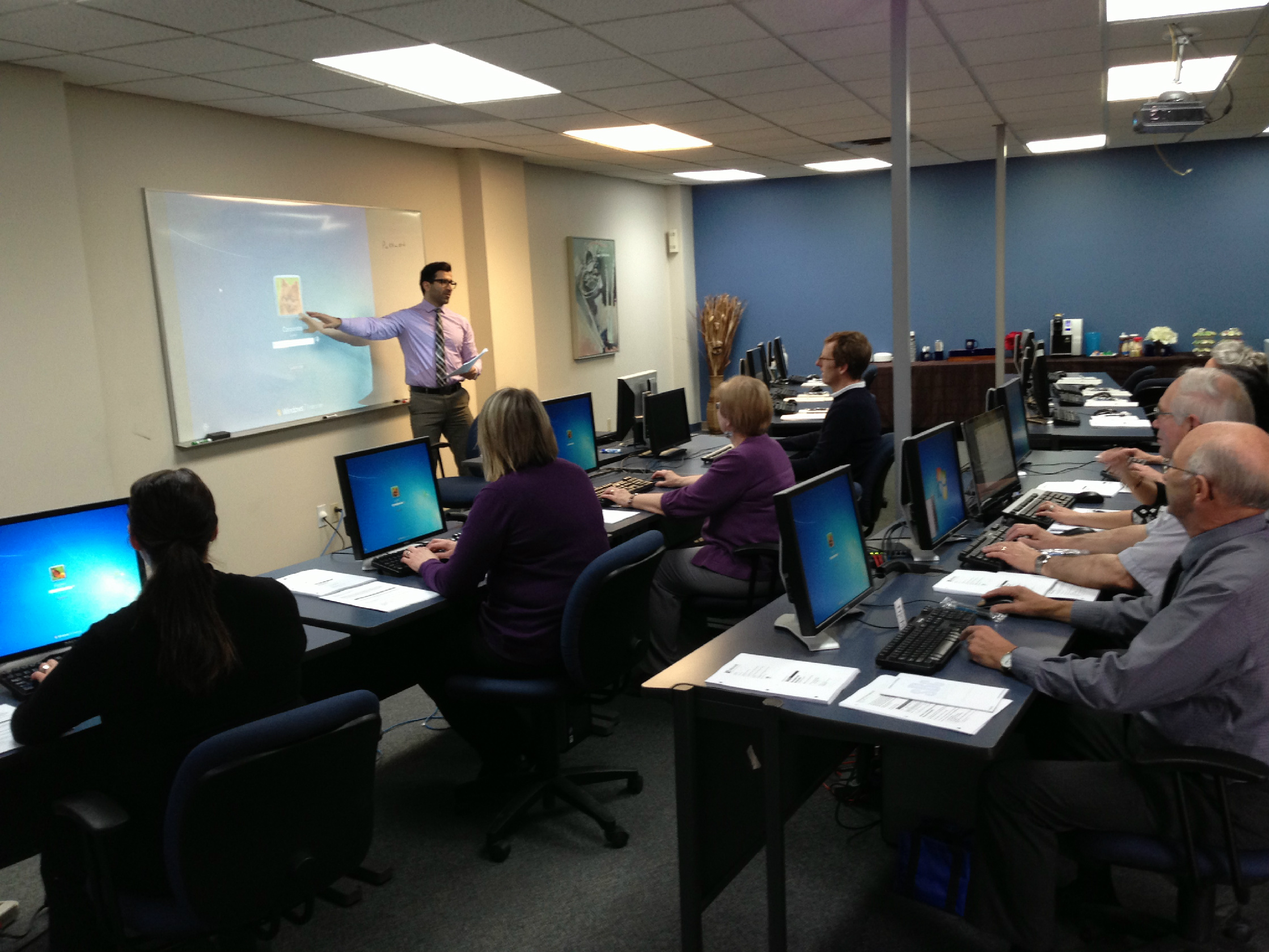
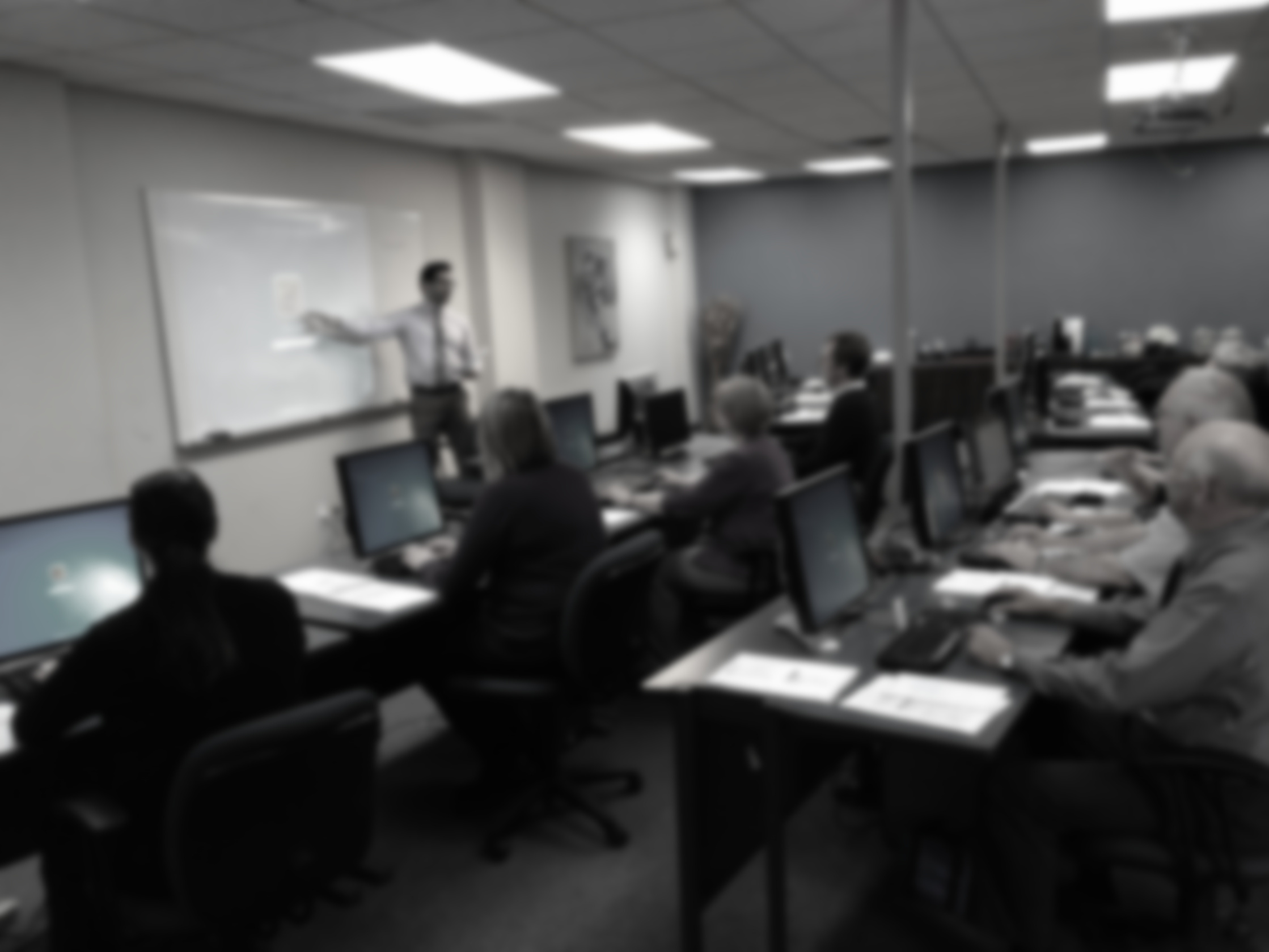
still messing about

diff --git a/templates/index.html b/templates/index.html
@@ -41,25 +41,25 @@
 <div class="jumbotron jumbowhite">
     <div class="row text-center">
         <div class="col-sm-3">
-            <div class="course-logo">
+            <div id="it" class="course-logo">
                 <i class="fa fa-desktop"></i>
                 <h3 style="margin-top:27px">IT Courses</h3>
             </div>
         </div>
         <div class="col-sm-3">
-            <div class="course-logo">
+            <div id="manage" class="course-logo">
                 <i class="fa fa-commenting"></i>
                 <h3>Management Skills</h3>
             </div>
         </div>
         <div class="col-sm-3">
-            <div class="course-logo">
+            <div id="technical" class="course-logo">
                 <i class="fa fa-cogs"></i>
                 <h3 style="margin-top:27px">Technical Skills</h3>
             </div>
         </div>
         <div class="col-sm-3">
-            <div class="course-logo">
+            <div id="exams" class="course-logo">
                 <i class="fa fa-windows"></i>
                 <h3>MOS & MTA Exams</h3>
             </div>
@@ -75,7 +75,7 @@
             <p>So whether you require a one to one consultancy or a corporate roll-out, we can help you with our vast network of qualified trainers & instructors, complimented by our portable classrooms when required.</p>
         </div>
         <div class="col-sm-5">
-            <h2 style="margin-top:0px; color: lightskyblue; margin-bottom: 30px">Upcoming Public Courses!</h2>
+            <h2 style="margin-top:0px; color: lightskyblue; margin-bottom: 30px;margin-right: -27px">Upcoming Public Courses!</h2>
             {% for row in upcoming %}
                 <div class="upcoming">
                     <div class="row">
@@ -180,5 +180,18 @@
         <span class="glyphicon glyphicon-chevron-right"></span>
     </a>
 </div>
-
+<script>
+    document.getElementById('it').onclick = function() {
+        window.location.href = "{{ url_for('about') }}";
+    };
+    document.getElementById('manage').onclick = function() {
+        window.location.href = "{{ url_for('about') }}";
+    };
+    document.getElementById('technical').onclick = function() {
+        window.location.href = "{{ url_for('about') }}";
+    };
+    document.getElementById('exams').onclick = function() {
+        window.location.href = "{{ url_for('about') }}";
+    };
+</script>
 {% endblock %}

diff --git a/templates/inquire.html b/templates/inquire.html
@@ -5,5 +5,36 @@
 {% endblock %}
 
 {% block main %}
-    Hello
+<div class="jumbotron">
+    <div class="row">
+        <div class="col-sm-6 text-center">
+            <h2>Inquiries</h2>
+            <p>If you're interesting in one of the courses you've seen on our website, or have further requirements that please get into contact and help us tailor our training to your exact requirements.</p>
+        </div>
+        <div class="col-sm-6">
+            <form action="{{ url_for('inquire') }}" method="post">
+                <div class="form-group">
+                    <label for="Name">Name</label>
+                    <input class="form-control" id="name" name="name" placeholder="Enter Name" required>
+                </div>
+                <div class="form-group">
+                    <label for="email">Email address</label>
+                    <input type="email" class="form-control" id="email" name="email" aria-describedby="emailHelp" placeholder="Enter email" required>
+                    <small id="emailHelp" class="form-text text-muted">We'll never share your email with anyone else.</small>
+                </div>
+                <div class="form-group">
+                    <label for="inquiry">Your Inquiry</label>
+                    {% if booking != None %}
+                        <textarea class="form-control" id="inquiry" name="inquiry" rows="6">I am enquiring about the "{{ booking.course }}" course on the date: {{ booking.date }}.</textarea>
+                    {% else %}
+                    <textarea class="form-control" id="inquiry" name="inquiry" rows="6" placeholder="Your enquiry"></textarea>
+                    {% endif %}
+                </div>
+                <div class="text-center">
+                    <button type="submit" class="btn btn-primary">Submit</button>
+                </div>
+            </form>
+        </div>
+    </div>
+</div>
 {% endblock %}

diff --git a/static/styles.css b/static/styles.css
@@ -22,7 +22,13 @@ body {
     
 }
 
+h3 {
+    letter-spacing: 4px;
+}
 
+h2 {
+    letter-spacing: 4px;
+}
 .overlay { 
   position:absolute;
     background-color: black;
@@ -65,11 +71,7 @@ body {
     padding-top:30px;
 }
 
-.carousel-inner img {
-    -webkit-filter: grayscale(90%) blur(4px);
-    filter: grayscale(80%) blur (3px);
-    width: 100%; /* Set width to 100% */
-}
+
 
 .jumbotron {
     padding-left:40px;
@@ -92,6 +94,7 @@ body {
     border-color: lightgray;
     border-radius: 10px;
     height: 179px;
+    cursor: pointer;
 }
 
 .upcoming {

diff --git a/templates/thankyou.html b/templates/thankyou.html
@@ -1,0 +1,17 @@
+{% extends "layout.html" %}
+
+{% block title %}
+    Thankyou for your enquiry
+{% endblock %}
+
+{% block main %}
+<div class="content">
+    <div class="jumbotron">
+        <div class="text-center">
+            <span class="glyphicon glyphicon-ok" aria-hidden="true" style="font-size:50;color:lightgreen"></span>
+            <h2>Thank you for your enquiry. We will be in contact with you shortly to further discuss your requirements.</h2>
+            
+        </div>
+    </div>    
+</div>
+{% endblock %}

diff --git a/application.py b/application.py
@@ -111,9 +111,23 @@ def index(message=""):
 def about(message=""):
     return render_template("about.html")
 
-@app.route("/inquire", methods=["GET"])
+@app.route("/inquire", methods=["GET", "POST"])
 def inquire(message=""):
-    return render_template("inquire.html")
+    if request.method == 'POST':
+        data = request.form.get('inquiry')
+        return redirect(url_for('thankyou'))
+    
+    elif request.args.get("token") != None:
+        booking = db.execute("SELECT bookings.date, courses.name AS course FROM bookings INNER JOIN courses ON bookings.course=courses.id WHERE bookings.id = :id",
+                                id = request.args.get('token')
+                                )
+    else:
+        booking = None
+    return render_template("inquire.html", booking = booking[0])
+
+@app.route("/thankyou", methods=["GET", "POST"])
+def thankyou(message=""):
+    return render_template("thankyou.html")
 
 if __name__ == '__main__':
     port = int(os.environ.get('PORT', 5000))
